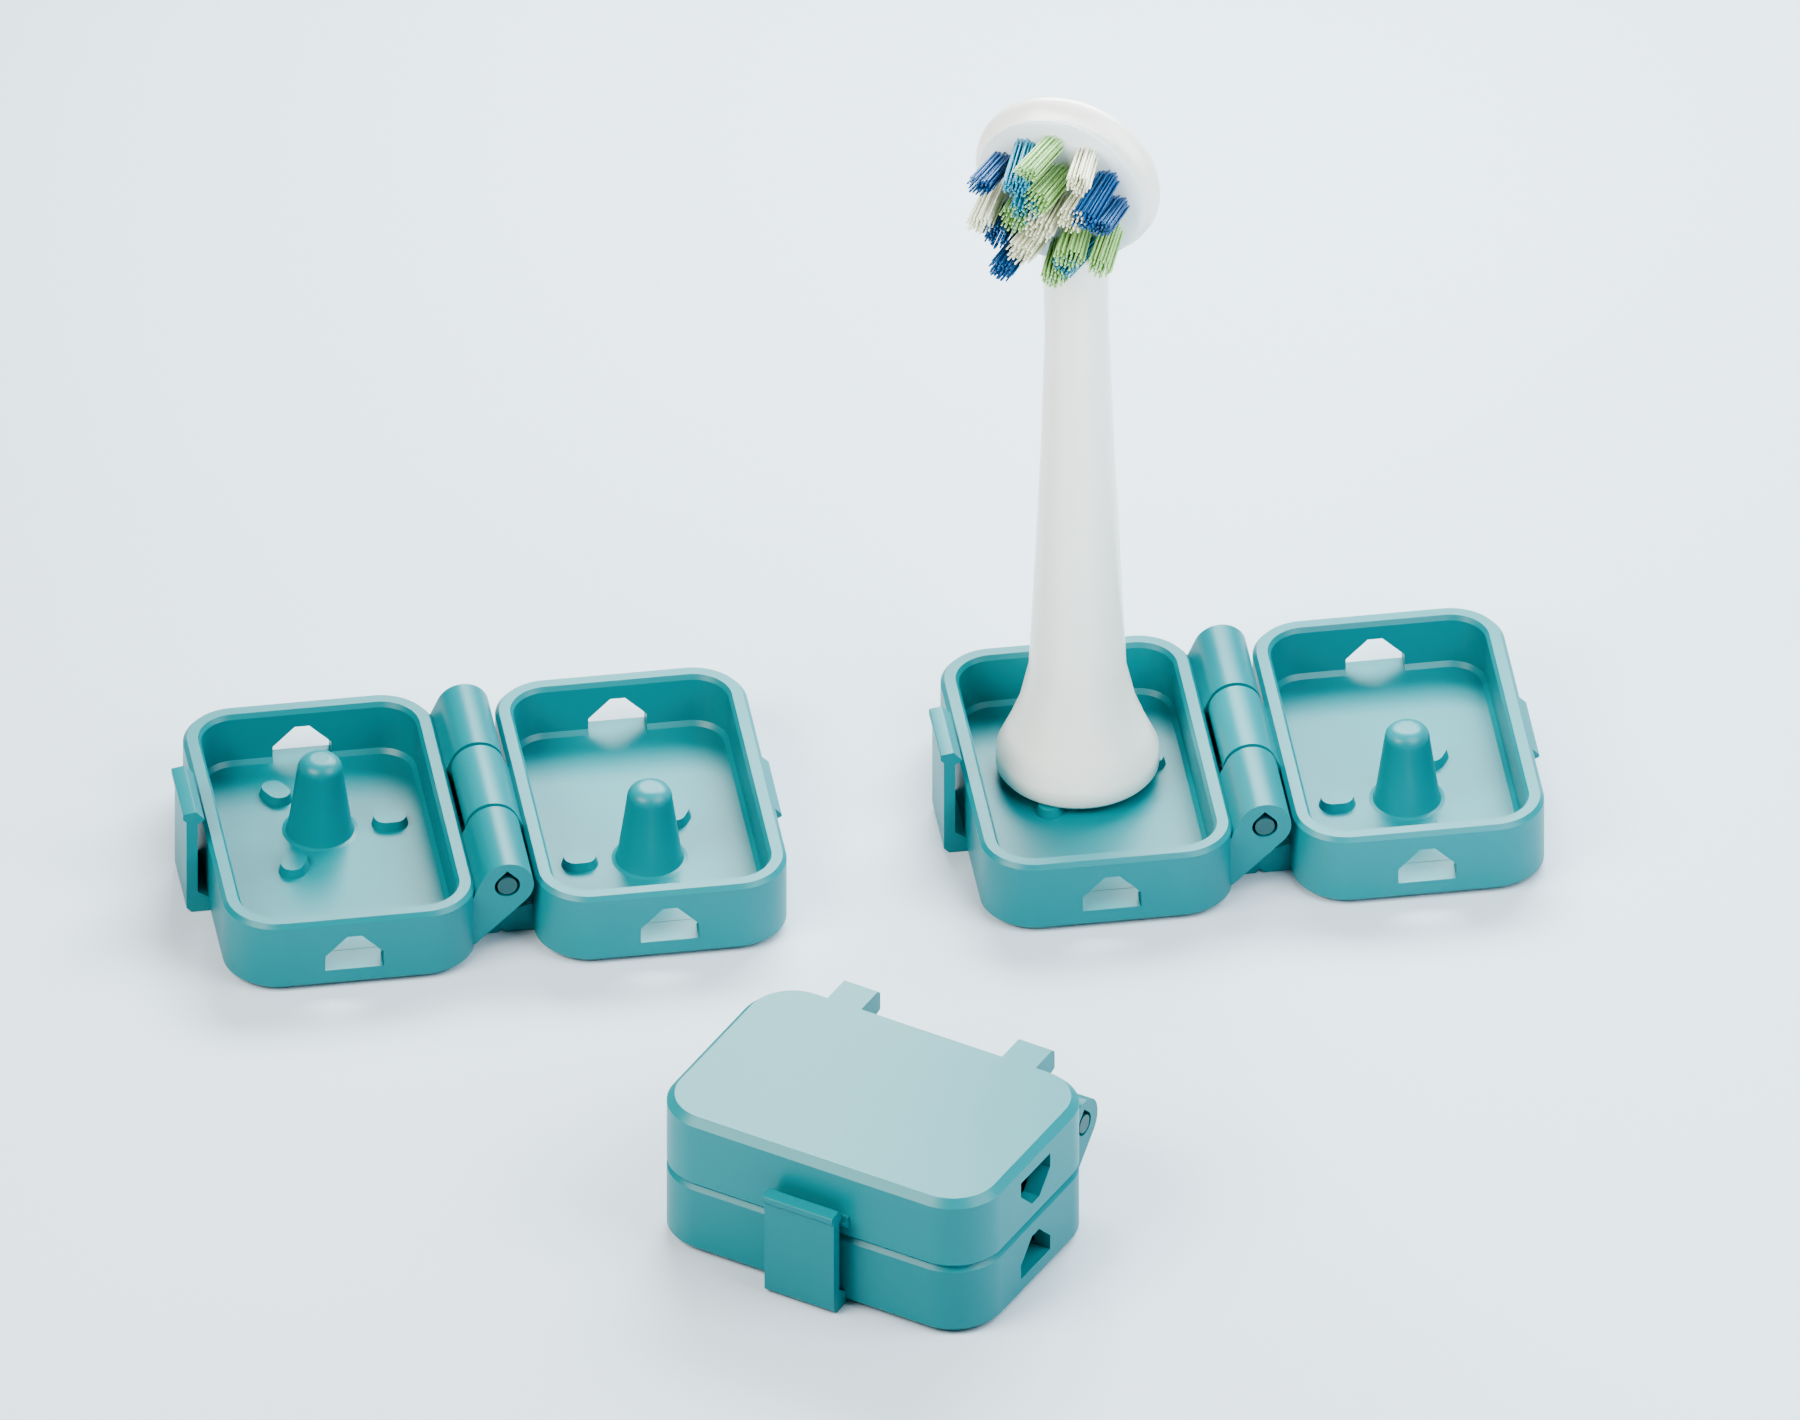
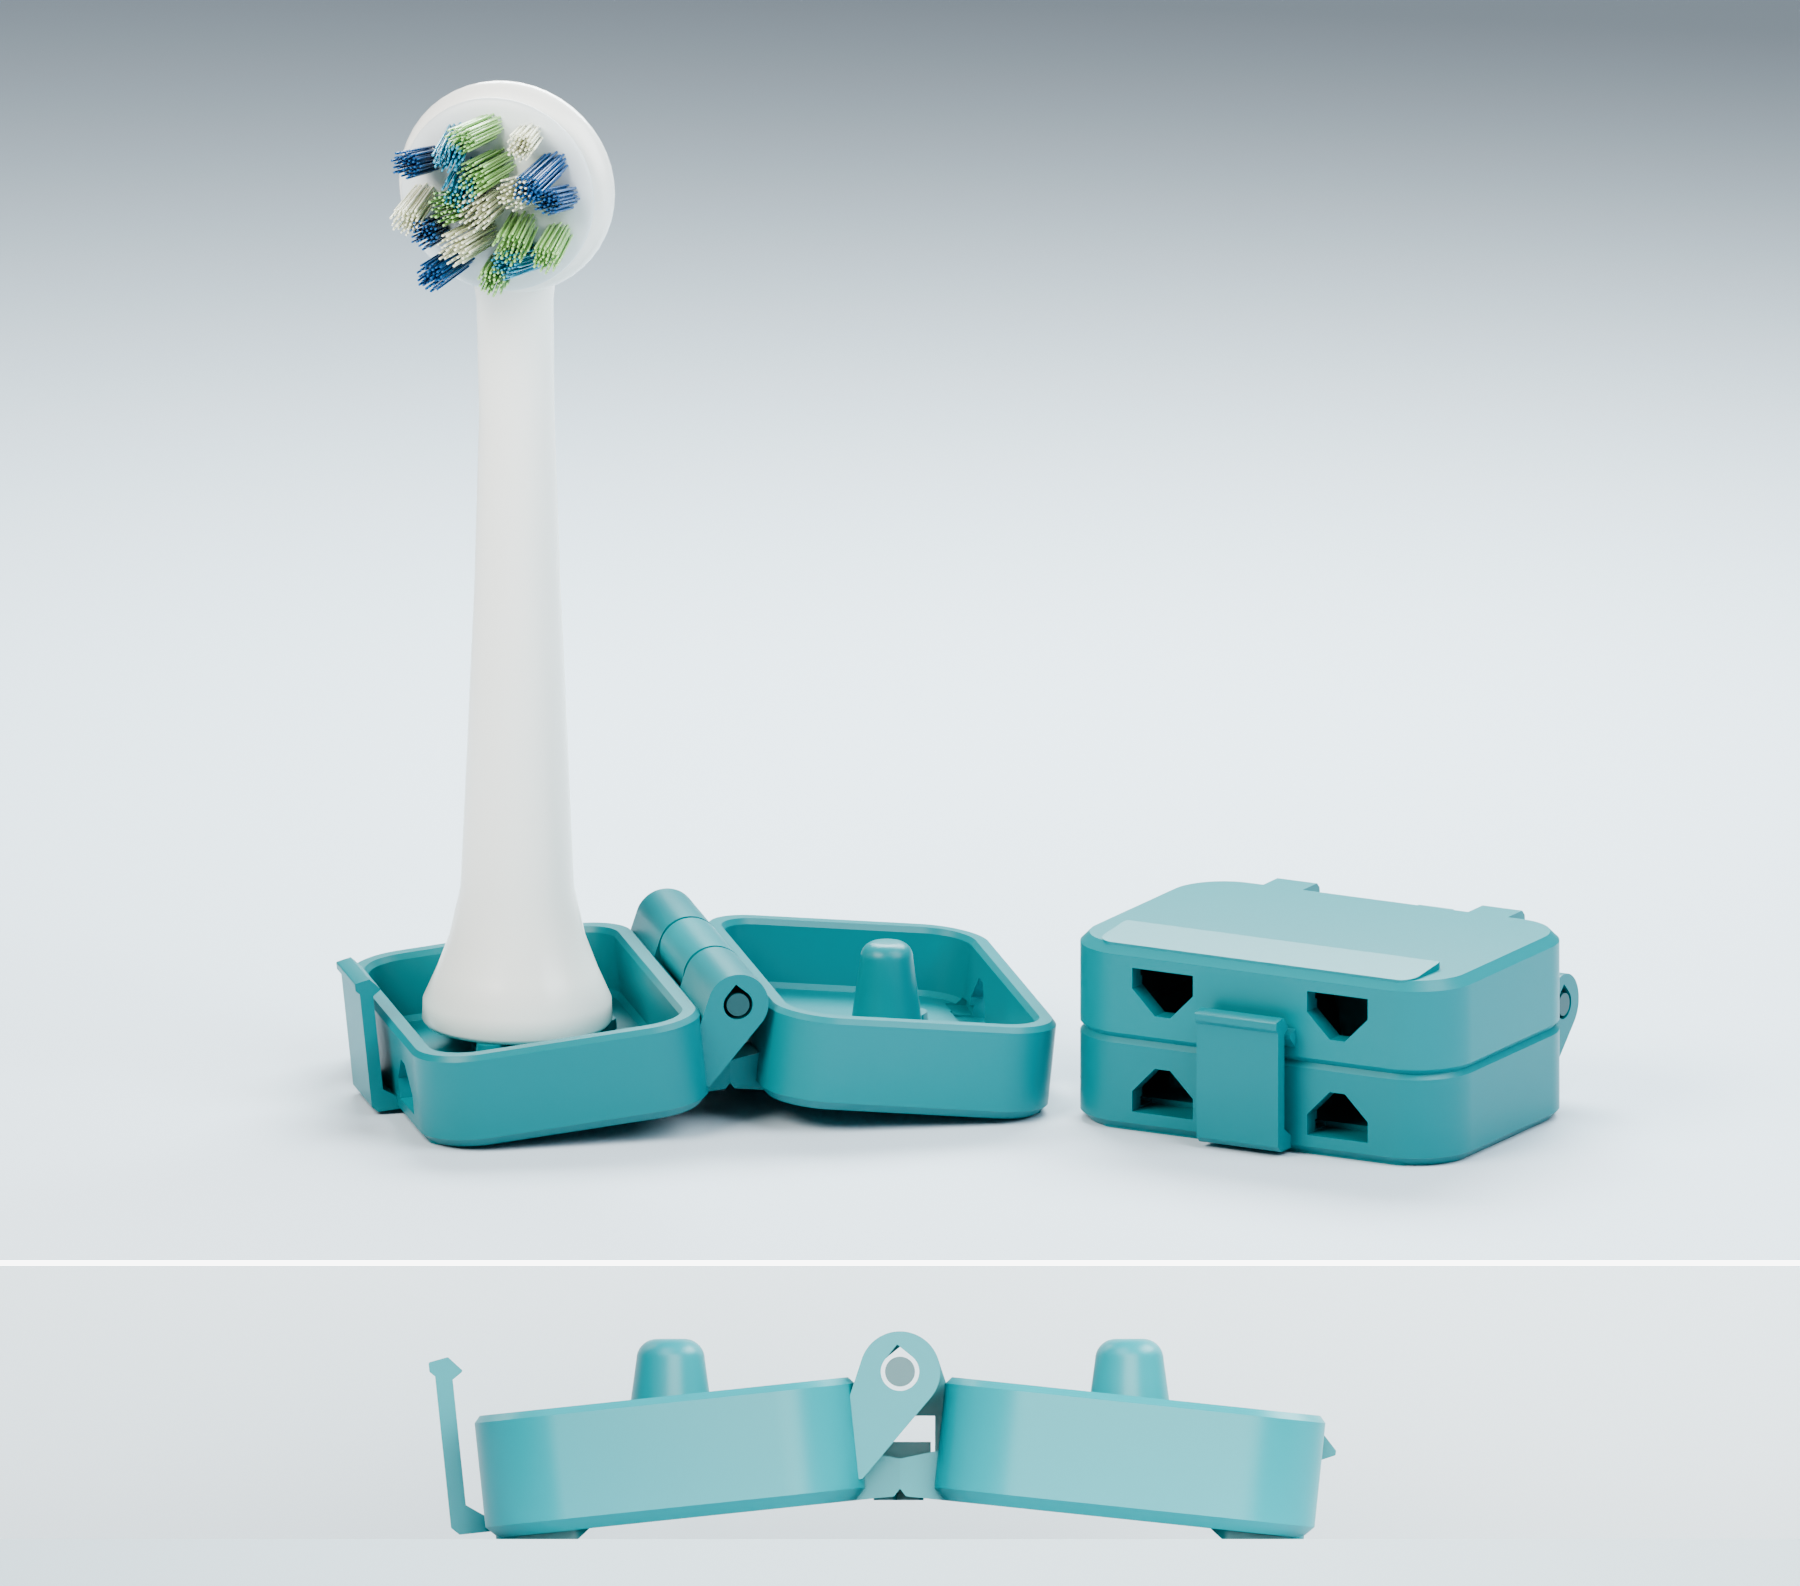
Raise the folding stand hinge above the counter

diff --git a/README.md b/README.md
@@ -2,11 +2,13 @@
 
 ## Folding peg case · design concept
 
-The stand folds into a **33 × 29.7 × 14.4 mm** case for the empty pegs. Carry the brush heads separately. Open the case flat to make a **53.1 × 33 mm** base. One head sits on each half. The pegs are staggered so they pass beside one another when the case closes. Four side openings let water escape under the raised heels.
+The empty stand closes into a **33 × 29.7 × 15.5 mm** pocket case. Carry the brush heads separately. Open the case until the catch beneath the hinge engages. Each half slopes **6°** down to a flat foot at its outer edge, leaving about **2.5 mm** of clearance beneath the shell near the hinge. The two feet support the stand across a **52.9 × 33 mm** footprint.
+
+The pegs stay vertical and the heel pads stay level so both heads stand upright. Water runs downhill toward two outlets on each outer edge. To pack the stand, remove the heads, lift the stand and press the tab underneath the hinge as you start to fold. The empty pegs pass beside each other and the front latch holds the case shut.
 
 The fit target is the classic Oral-B Pro CrossAction head. The 5.6 mm peg diameter and 7 mm insertion depth are adjustable design assumptions. The manufacturer identifies the brush-head family. Fit on actual heads and latch feel remain unverified. [Oral-B Pro brush heads](https://oralb.com/en-us/products/replacement-brush-heads/non-io-brush-heads/)
 
-![The folding stand closed, open with both pegs exposed, and open with one illustrative head mounted](renders/Folding-stand.png)
+![The folding stand open with an upright brush head, closed for travel, and viewed from the side to show its raised hinge and two counter contact strips](renders/Folding-stand.png)
 
 Use the `open` and `closed` views in the [editable OpenSCAD concept](model/Folding-stand.scad).
 
